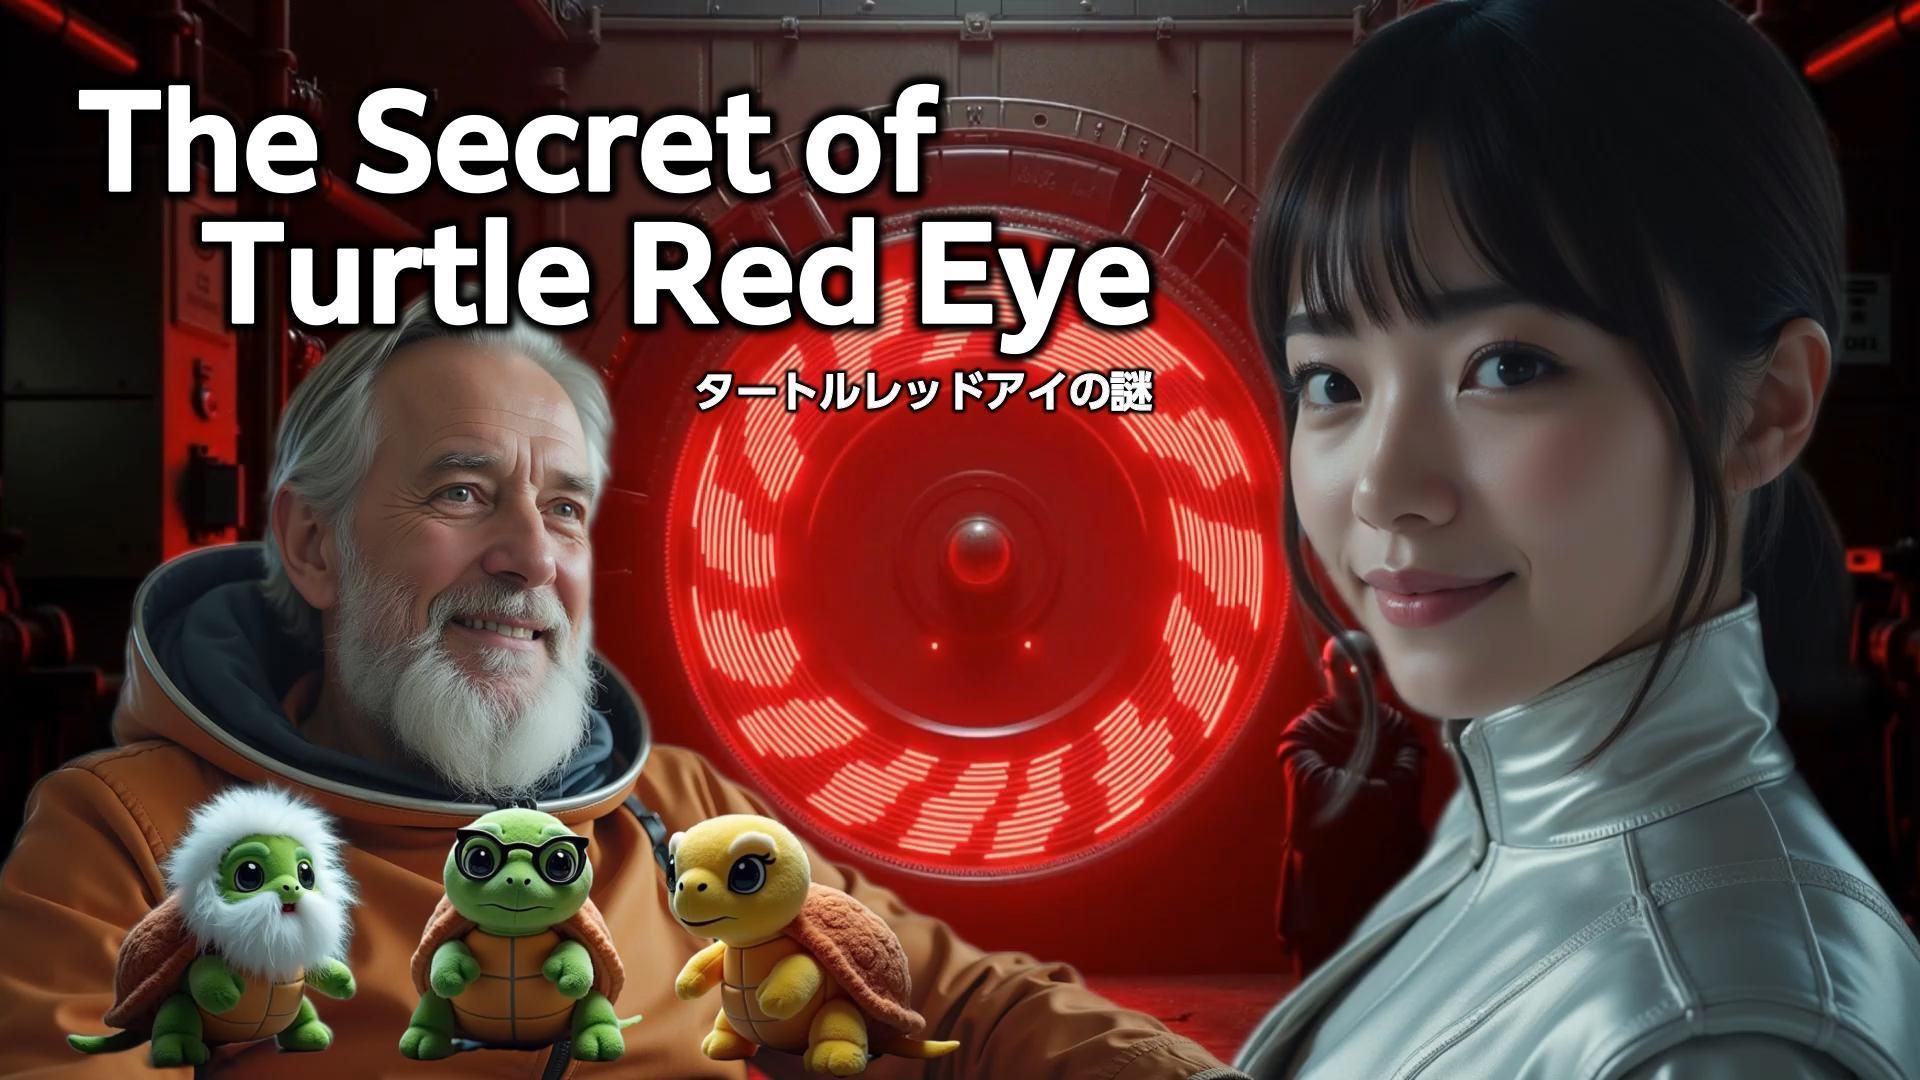
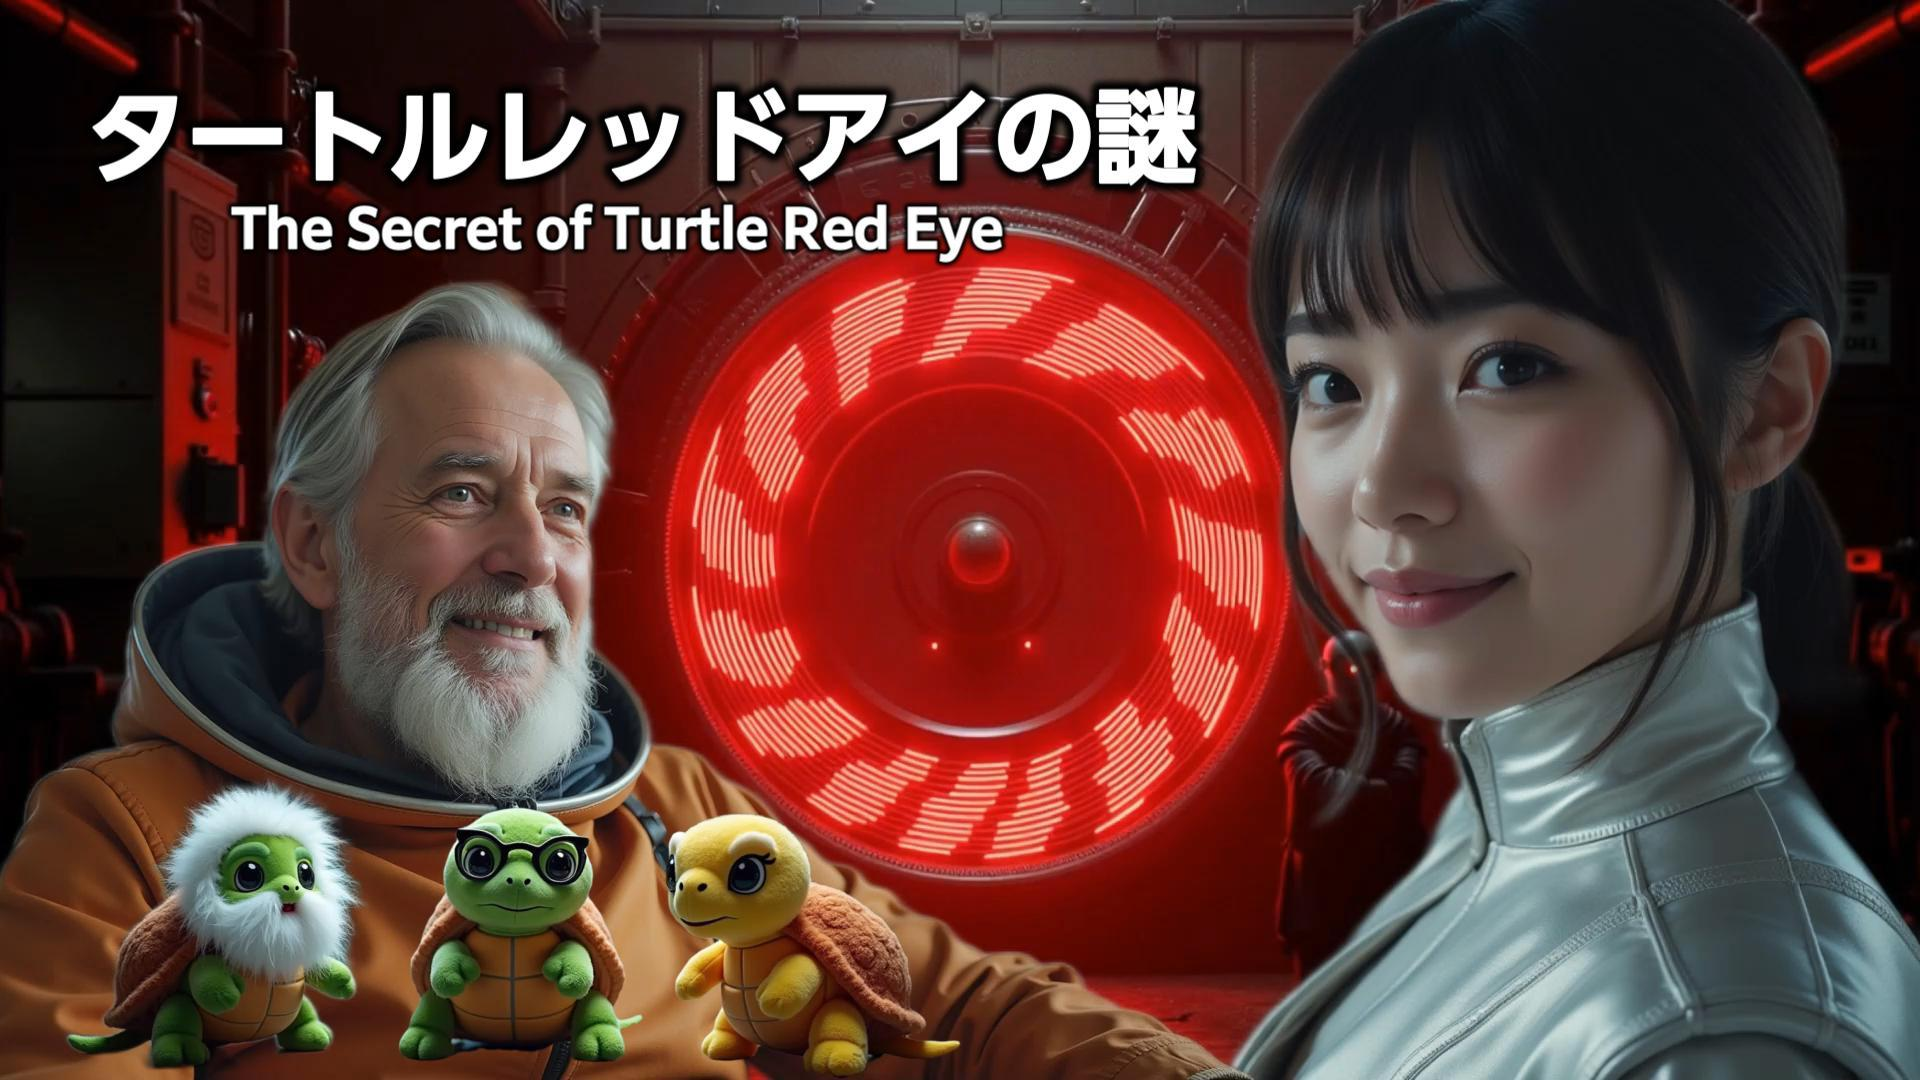
kling 動画差し替え

Changed region(s): [[0.0312, 0.0611, 0.625, 0.3972]]

diff --git a/articles/turtle-20240916-klingai.md b/articles/turtle-20240916-klingai.md
@@ -25,10 +25,10 @@ Kling AIで動画を生成した後、それらと各種素材をうまく組み
 https://www.youtube.com/watch?v=e9NK0dW7yf0
 
 今回は、このAIツールを用いた動画生成の基本的な方法と、生成した5秒から10秒のAI動画をどのように活用するかについて例を紹介します。
-なお、ブログの最後に「Tales of the Fortress 要塞物語」の続きを用意しております。ブログを一通り読んで、ちょっとリラックスしたいときに見ていただければ幸いです。
+なお、ブログの最後に「Tales of the Fortress 要塞物語」の続きの動画「タートルレッドアイの謎」を用意しております。ブログを一通り読んで、ちょっとリラックスしたいときに見ていただければ幸いです。
 
 ![](/images/turtle-20240916-klingai/red_eye_title.jpg =250x)
-*続きの動画のサムネイル（特典映像の章で公開）*
+*続きの動画のサムネイル（特典映像の章で公開しています）*
 
 ## ブログの構成
 
@@ -520,7 +520,7 @@ https://www.youtube.com/watch?v=I8k8VlaqrkQ
 最後までブログを読んでいただき、本当にありがとうございます！
 ブログ冒頭でご紹介しました「要塞物語」で登場した"タートルレッドアイ"の謎に迫る続きの動画です。もしお時間がございましたら、ご覧ください。
 
-https://www.youtube.com/watch?v=BQ0AT1E7vCM
+https://www.youtube.com/watch?v=kSgLXZmmN_U
 
 使用したツールは次の通りです。
 
@@ -529,7 +529,6 @@ https://www.youtube.com/watch?v=BQ0AT1E7vCM
 - 合成音声AI：VOICEPEAK 商用可能 6ナレーターセット
 - 編集ソフト：Filmora
 - BGM（音楽AI）: Filmora Generative Music
-- 字幕英訳：Copilot/ChatGPT/Gemini（汎用AI）
 
 ここまでブログを読んでくださった方は、きっとこのような動画作成できるようになると思いますので、チャレンジしてみてください。
 
@@ -558,8 +557,13 @@ https://zenn.dev/safubuki/articles/turtle-20240223-gitcopilot
 更新履歴は折りたたみ表示にしています。
 確認したい場合は、以下のバーをクリック（タップ）してください。
 
-:::details 更新履歴（最終更新日：2024/10/20）
+:::details 更新履歴（最終更新日：2024/10/21）
 **更新履歴**
+
+- **2024/10/21**
+  特典映像（タートルレッドアイの謎）を差し替えました。
+  - 字幕を日本語にしました。
+  - セリフの日本語イントネーションが不正確な個所を修正しました。
 
 - **2024/10/20**
   特典映像（タートルレッドアイの謎）を追加しました。
